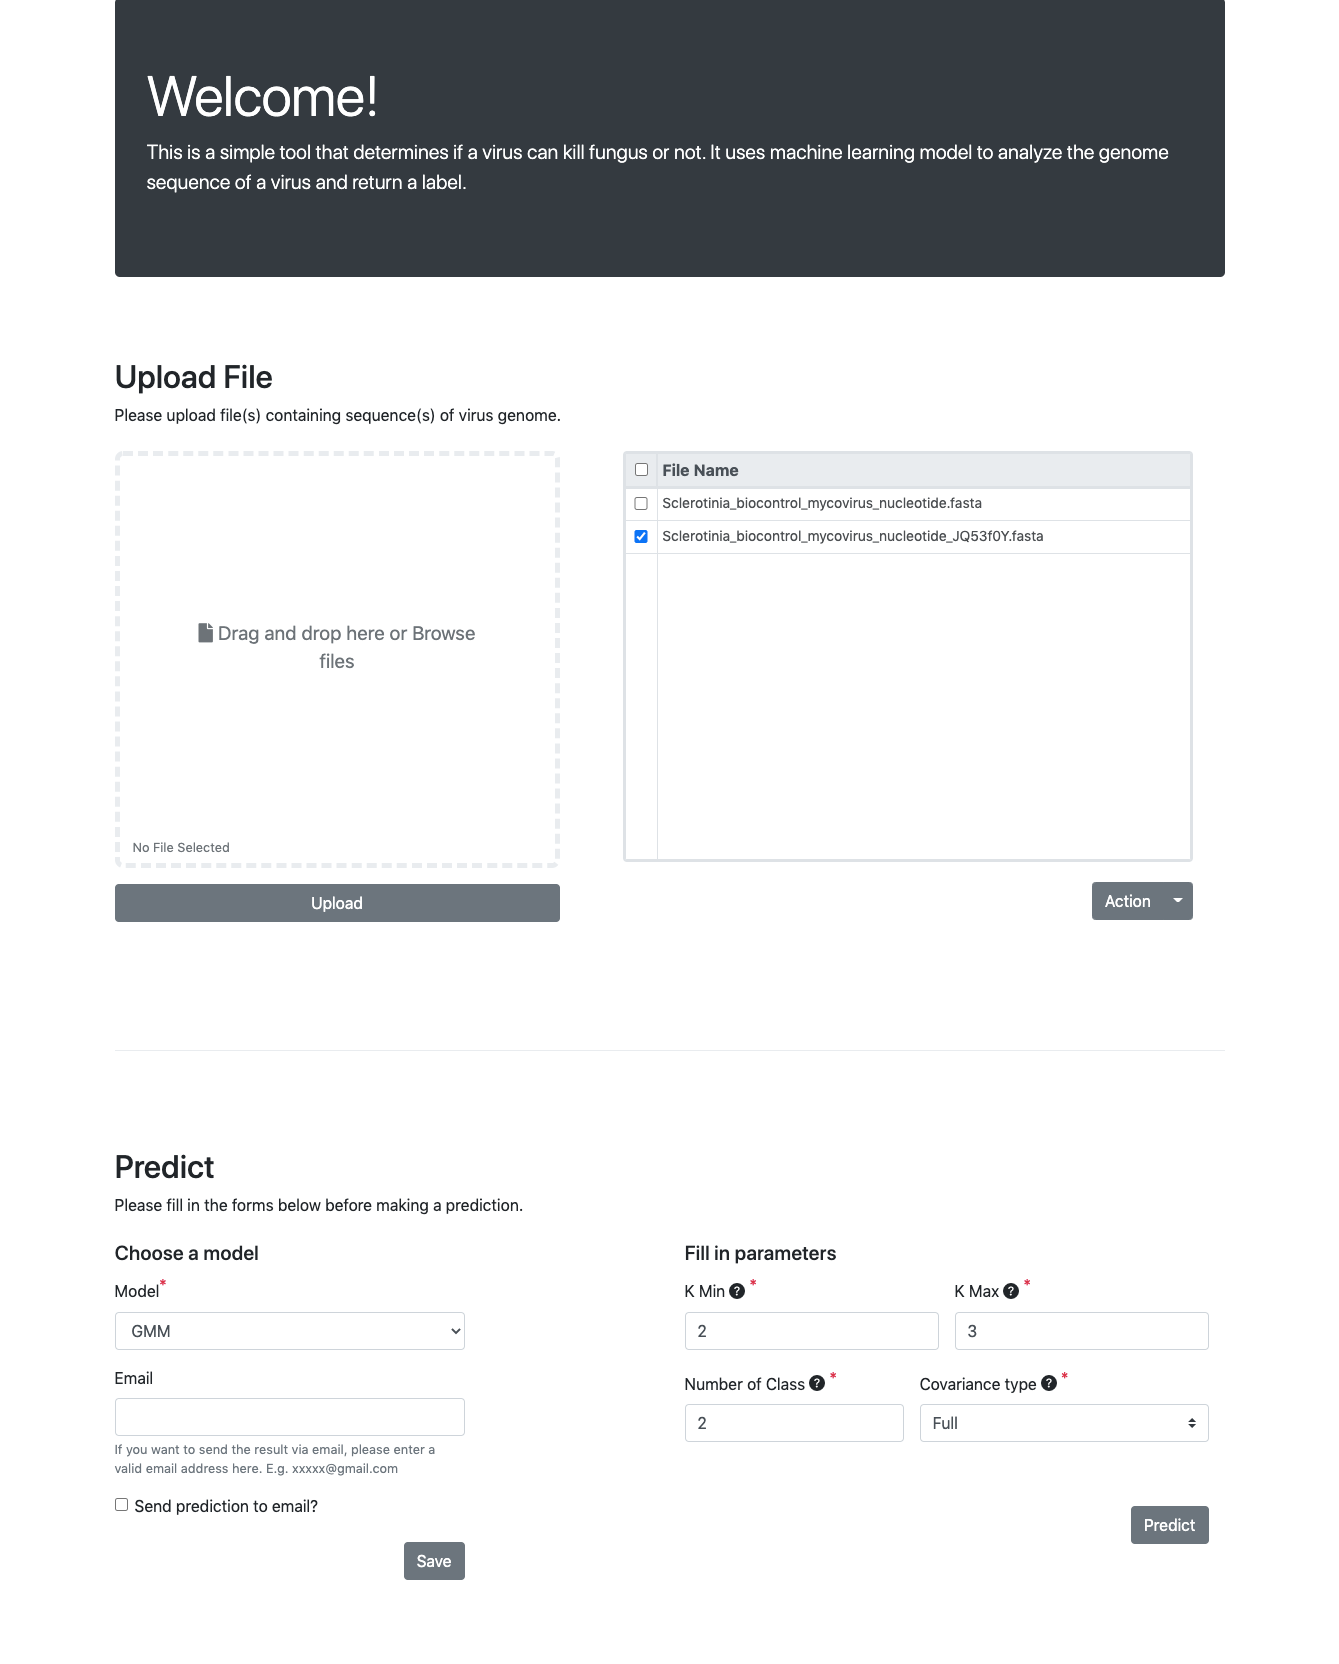
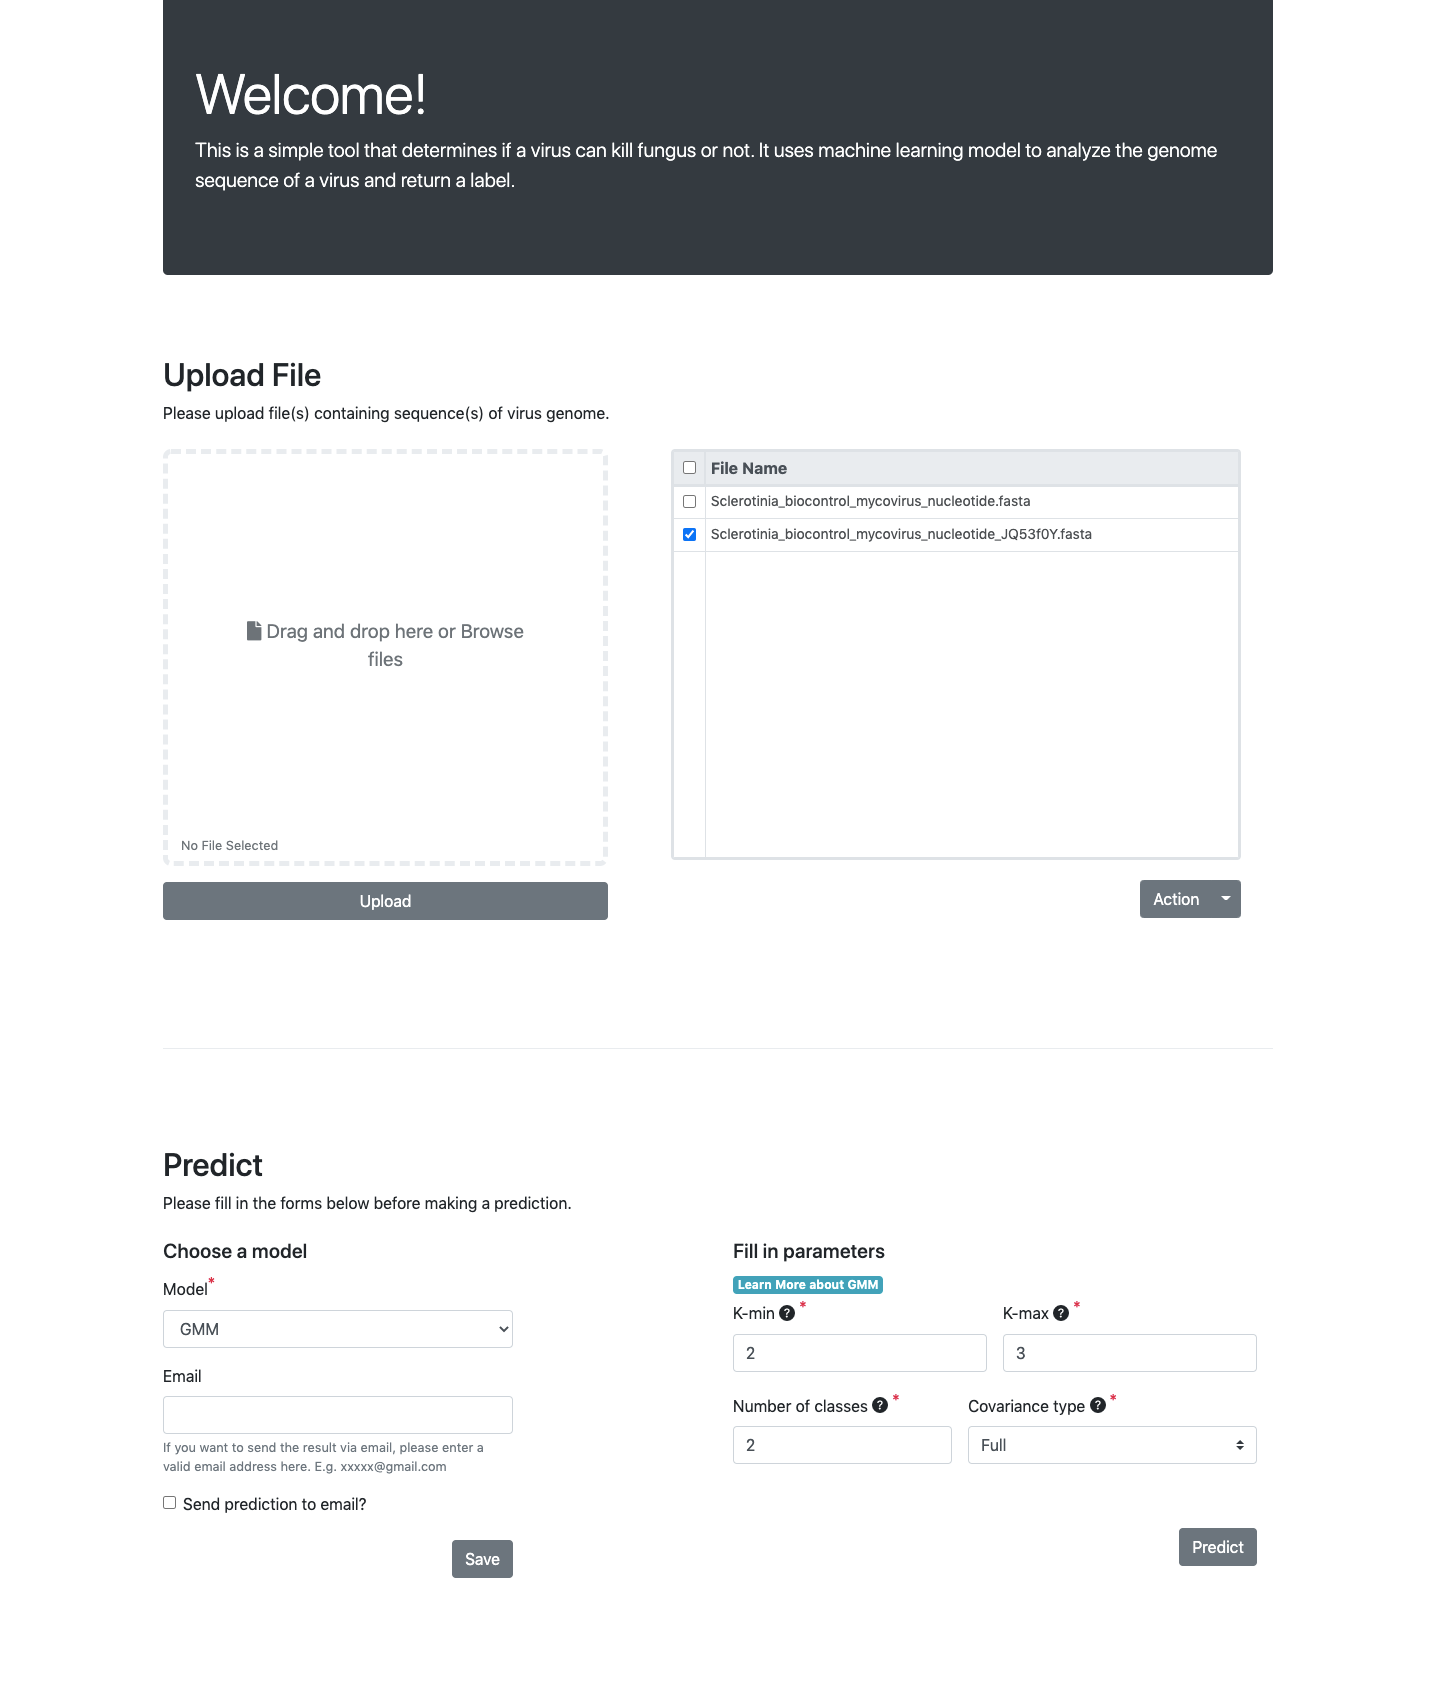
add gmm description

diff --git a/Mycovirus/templates/mlmodel/predict.html b/Mycovirus/templates/mlmodel/predict.html
@@ -77,6 +77,35 @@
 
     <div class="col-md-6">
         <h5>Fill in parameters</h5>
+        <a class="badge badge-info" data-toggle="modal" data-target="#staticBackdrop">
+            Learn More about {{ predict_form.instance.get_mlmodels_display }}
+        </a>
+        <!-- Modal -->
+        <div class="modal fade" id="staticBackdrop" data-backdrop="static" data-keyboard="false" tabindex="-1" aria-labelledby="staticBackdropLabel" aria-hidden="true">
+            <div class="modal-dialog">
+            <div class="modal-content">
+                <div class="modal-header">
+                <h5 class="modal-title" id="staticBackdropLabel" style="text-transform:uppercase">{{ predict_form.instance.get_mlmodels_display }}</h5>
+                <button type="button" class="close" data-dismiss="modal" aria-label="Close">
+                    <span aria-hidden="true">&times;</span>
+                </button>
+                </div>
+                <div class="modal-body">
+                    <div>
+                        {% for field, dscp in parameters_form.description.items %}
+                            <u>{{field}}</u>:
+                            <p>{{dscp|safe}}</p>
+                            <br>
+                        {% endfor %}
+                    </div>
+                </div>
+                <div class="modal-footer">
+                <button type="button" class="btn btn-secondary" data-dismiss="modal">Close</button>
+                </div>
+            </div>
+            </div>
+        </div>
+
         <form method="POST" enctype="multipart/form-data" target="_blank">
             {% csrf_token %}
             {% if parameters_form.fields|length == 0 %}
@@ -251,7 +280,9 @@ all_predictinfo:
         }
     })
     $(function () {
-        $('[data-toggle="tooltip"]').tooltip()
+        $('[data-toggle="tooltip"]').tooltip({
+            html: true
+        })
     })
     document.addEventListener("DOMContentLoaded", function (event) {
         let scrollpos = sessionStorage.getItem('scrollpos');

diff --git a/Mycovirus/templates/widgets/select.html b/Mycovirus/templates/widgets/select.html
@@ -2,7 +2,7 @@
 <label for="{{ widget.name }}" {% if widget.required %}requiredField{% endif %}">
     {{ widget.attrs.label }}
     {% if widget.attrs.help_text %}
-        <span  data-toggle="tooltip" data-placement="top" title="{{ widget.attrs.help_text }}">
+        <span  data-toggle="tooltip" data-placement="bottom" title="{{ widget.attrs.help_text }}" {% if widget.attrs.isHtml %} data-html="true" {% endif %}>
             <svg width="1em" height="1em" viewBox="0 0 16 16" class="bi bi-question-circle-fill" fill="currentColor" xmlns="http://www.w3.org/2000/svg">
                 <path fill-rule="evenodd" d="M16 8A8 8 0 1 1 0 8a8 8 0 0 1 16 0zM5.496 6.033a.237.237 0 0 1-.24-.247C5.35 4.091 6.737 3.5 8.005 3.5c1.396 0 2.672.73 2.672 2.24 0 1.08-.635 1.594-1.244 2.057-.737.559-1.01.768-1.01 1.486v.105a.25.25 0 0 1-.25.25h-.81a.25.25 0 0 1-.25-.246l-.004-.217c-.038-.927.495-1.498 1.168-1.987.59-.444.965-.736.965-1.371 0-.825-.628-1.168-1.314-1.168-.803 0-1.253.478-1.342 1.134-.018.137-.128.25-.266.25h-.825zm2.325 6.443c-.584 0-1.009-.394-1.009-.927 0-.552.425-.94 1.01-.94.609 0 1.028.388 1.028.94 0 .533-.42.927-1.029.927z"/>
             </svg>

diff --git a/Mycovirus/templates/widgets/number.html b/Mycovirus/templates/widgets/number.html
@@ -1,7 +1,7 @@
 <label for="{{ widget.name }}" {% if widget.required %}requiredField{% endif %}">
     {{ widget.attrs.label }}
     {% if widget.attrs.help_text %}
-        <span  data-toggle="tooltip" data-placement="top" title="{{ widget.attrs.help_text }}">
+        <span  data-toggle="tooltip" data-placement="bottom" title="{{ widget.attrs.help_text }}">
             <svg width="1em" height="1em" viewBox="0 0 16 16" class="bi bi-question-circle-fill" fill="currentColor" xmlns="http://www.w3.org/2000/svg">
                 <path fill-rule="evenodd" d="M16 8A8 8 0 1 1 0 8a8 8 0 0 1 16 0zM5.496 6.033a.237.237 0 0 1-.24-.247C5.35 4.091 6.737 3.5 8.005 3.5c1.396 0 2.672.73 2.672 2.24 0 1.08-.635 1.594-1.244 2.057-.737.559-1.01.768-1.01 1.486v.105a.25.25 0 0 1-.25.25h-.81a.25.25 0 0 1-.25-.246l-.004-.217c-.038-.927.495-1.498 1.168-1.987.59-.444.965-.736.965-1.371 0-.825-.628-1.168-1.314-1.168-.803 0-1.253.478-1.342 1.134-.018.137-.128.25-.266.25h-.825zm2.325 6.443c-.584 0-1.009-.394-1.009-.927 0-.552.425-.94 1.01-.94.609 0 1.028.388 1.028.94 0 .533-.42.927-1.029.927z"/>
             </svg>

diff --git a/Mycovirus/templates/mlmodel/result.html b/Mycovirus/templates/mlmodel/result.html
@@ -18,7 +18,7 @@
     <h2>Result</h2>
     <div id="result_img" style="width: 40%">
     </div>
-    <div id="result1" style="width: 40%">
+    <div id="result_label" style="width: 40%">
     </div>
 </div>
 {% endautoescape %} 
@@ -35,12 +35,11 @@
         data: {csrfmiddlewaretoken: window.CSRF_TOKEN},
         success: function(result){
             $("#loading").remove();
-            $('#result1').append(result.label);
+            $('#result_label').append(result.label);
             $("#result").show();
             result.image.forEach(i => {
                 $('#result_img').append('<img src="' + "../" + i + '" />');
             });
-            
         },
         error: function(xhr){
             alert(xhr.responseText); //Remove this when all is fine.

diff --git a/Mycovirus/mlmodel/views.py b/Mycovirus/mlmodel/views.py
@@ -11,6 +11,7 @@ from django.core.mail import send_mail, EmailMessage
 from django.core.files.storage import FileSystemStorage
 from django.shortcuts import redirect, render
 from django.template.loader import render_to_string
+from django.template.defaulttags import register
 from django.views.generic.edit import FormView
 from django.http import FileResponse, HttpResponse, HttpResponseRedirect, JsonResponse
 from mlmodel.forms import MyNumberInput, MySelect, FileInfoForm, FileListInfoForm, PredictInfoForm, ParametersInfoForm
@@ -323,12 +324,42 @@ def get_parameters_form(mlmodels, content):
             ('tied', 'Tied'),
             ('full', 'Full'),
         ]
-        kmer_choices = [(i,i) for i in range(1, 10)]
+        cov_type_img = os.path.join("media", "models", "images", "gmm_cov_type.png")
+        cov_type_help_text = "Type of covariance. There are four types of covariances: spherical, diagonal, tied, and full. Default is set to be full. More details see <u>Learn More about GMM</u> above."
         new_fields = {
-            'k_min': forms.IntegerField(validators=[MinValueValidator(1)], widget=MyNumberInput(attrs={"class":"form-control", "label":"K Min", "help_text":"The minimum length of kmer"})),
-            'k_max': forms.IntegerField(validators=[MinValueValidator(1)], widget=MyNumberInput(attrs={"class":"form-control", "label":"K Max", "help_text":"The maximum length of kmer"})),
-            'num_class': forms.IntegerField(validators=[MinValueValidator(2)], widget=MyNumberInput(attrs={"class":"form-control", "label":"Number of Class", "help_text":"The number of classification labels"})),
-            'cov_type': forms.ChoiceField(choices=cov_types, widget=MySelect(attrs={"class": "custom-select", "label":"Covariance type", "help_text":"The shape you would expect for clusters"}))
+            'k_min': forms.IntegerField(validators=[MinValueValidator(1)], 
+                widget=MyNumberInput(attrs={
+                    "class":"form-control", 
+                    "label":"K-min", 
+                    "help_text":"The minimum length of k-mer. You can choose starting from 2. However, less than 6 is recommended according to our experiments. Default is set to be 2."
+            })),
+            'k_max': forms.IntegerField(validators=[MinValueValidator(1)], 
+                widget=MyNumberInput(attrs={
+                    "class":"form-control", 
+                    "label":"K-max", 
+                    "help_text":"The maximum length of k-mer. You can choose starting from 2. However, less than 6 is recommended according to our experiments. Default is set to be 3."
+            })),
+            'num_class': forms.IntegerField(validators=[MinValueValidator(2)], 
+                widget=MyNumberInput(attrs={
+                    "class":"form-control", 
+                    "label":"Number of classes", 
+                    "help_text":"The number of predicted labels. Default is set to be 2."
+            })),
+            'cov_type': forms.ChoiceField(choices=cov_types, 
+                widget=MySelect(attrs={
+                    "class": "custom-select", 
+                    "label":"Covariance type",
+                    "help_text": cov_type_help_text,
+                    "isHtml": True
+            })),
+            'description': {
+                'Gaussian Mixture Model (GMM)': 'GMM is a probabilistic model that estimates the underlying multiple Gaussian distributions behind the seemingly chaotic observations. Input will be gene sequences, aligned or unaligned, and output will be predicted label for each virus: 0,1, etc. A k-mer table will be created to transfer the input data for analysis. When using this model, the following parameters are predetermined.',
+                'K-mer': 'Consecutive genes of length k that can be important for classification. The range of length of k-mer can be adjusted. For instance, if you set the minimum length to be 3 and maximum length 3 for gene sequence ATGG, two k-mers ATG and TGG are considered.',
+                'K-min': 'The minimum length of k-mer. You can choose starting from 2. However, less than 6 is recommended according to our experiments. Default is set to be 2.',
+                'K-max': 'The maximum length of k-mer. You can choose starting from 2. However, less than 6 is recommended according to our experiments. Default is set to be 3.',
+                'Number of classes': 'The number of predicted labels. Default is set to be 2.',
+                'Covariance type': 'The type of covariance. There are four types of covariances: spherical, diagonal, tied, and full. Default is set to be full. See the following figure of how they work: <br><img src="%s">' % cov_type_img
+            }
         }
         if not bool(content) or 'k_min' not in content:
             content = {
@@ -351,6 +382,14 @@ def get_parameters_form(mlmodels, content):
     parameters_form = DynamicParametersInfoForm(content)
     return parameters_form
 
+@register.filter
+def get_item(choices, key):
+    print(choices)
+    print(key)
+    for c in choices:
+       if c[0] == key:
+           return c[1]
+    return ''
 
 def cookie_session(request):
     request.session.set_test_cookie()
@@ -362,6 +401,7 @@ def cookie_delete(request):
     else:
         response = HttpResponse("Dataflair <br> Your browser doesnot accept cookies")
     return response
+
 
 
 def create_session(request):
